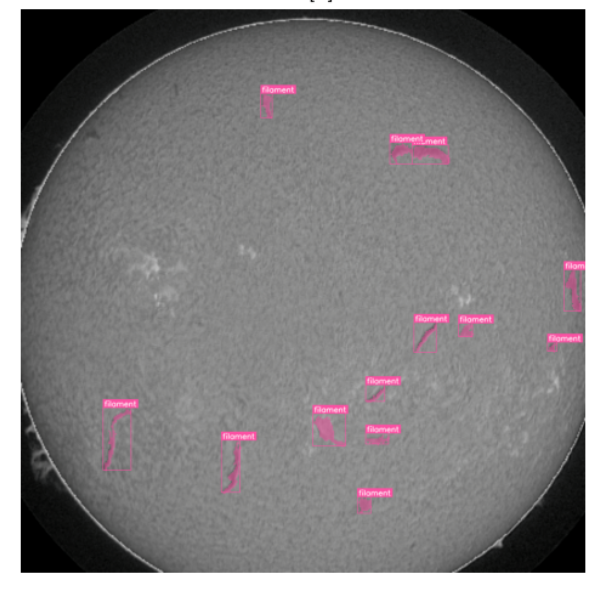
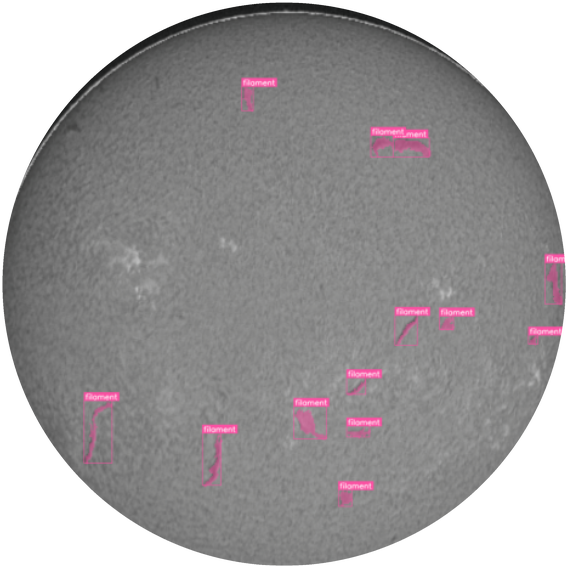
update

diff --git a/index.html b/index.html
@@ -174,7 +174,7 @@
                         <tbody>
                             <tr>
                                 <td style="padding:20px;width:30%;vertical-align:center;text-align:center">
-                                    <img style="width:50%;max-width:70%" alt="PSUTI logo" src="images/psuti.jpg"
+                                    <img style="width:50%;max-width:70%" alt="PSUTI logo" src="images/psuti.png"
                                         class="hoverZoomLink">
                                 </td>
                                 <td style="padding:20px;width:70%;vertical-align:center;line-height:1.8em">
@@ -204,7 +204,7 @@
                         <tbody>
                             <tr>
                                 <td style="padding:20px;padding-top:0px;width:30%;vertical-align:center;text-align:center">
-                                    <img style="width:50%;max-width:80%" alt="nii logo" src="images/nii.jpg" class="hoverZoomLink">
+                                    <img style="width:50%;max-width:80%" alt="nii logo" src="images/nii.png" class="hoverZoomLink">
                                 </td>
                                 <td style="padding:20px;padding-top:0px;width:70%;vertical-align:center;line-height:1.8em">
                                     <a href="https://samsmu.ru/departments/nii/neuroscience/">
